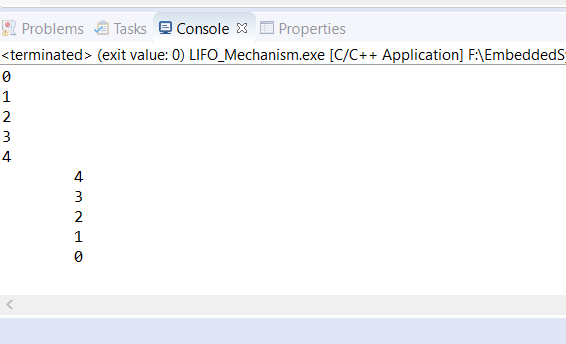
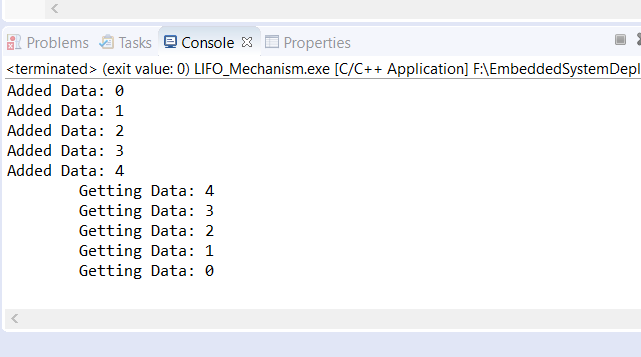
edited library

diff --git a/3...Data_Structure/Assignment/Lecture_1/LIFO_Mechanism/lifo.c b/3...Data_Structure/Assignment/Lecture_1/LIFO_Mechanism/lifo.c
@@ -17,7 +17,7 @@
 
 LIFO_Status LIFO_Buf_Init(LIFO_BASE_t* PLIFO, DataType* P_Buf, uint32_t length)
 {
-	//check if buffer is already exit or not.
+	//check if buffer is already exist or not.
 	if(P_Buf == NULL)
 		return LIFO_Error;
 
@@ -30,7 +30,7 @@ LIFO_Status LIFO_Buf_Init(LIFO_BASE_t* PLIFO, DataType* P_Buf, uint32_t length)
 
 LIFO_Status LIFO_AddData(LIFO_BASE_t* PLIFO, DataType temp)
 {
-	//check if LIFO is already exit or not.
+	//check if LIFO is already pointing to a buffer or not.
 	if(!PLIFO->Base || !PLIFO->Head)
 	{
 		return LIFO_Error;
@@ -49,7 +49,7 @@ LIFO_Status LIFO_AddData(LIFO_BASE_t* PLIFO, DataType temp)
 
 LIFO_Status LIFO_GetData(LIFO_BASE_t* PLIFO, DataType* temp)
 {
-	//check if LIFO is already exit or not.
+	//check if LIFO is already exist or not.
 	if(!PLIFO->Base || !PLIFO->Head)
 	{
 		return LIFO_Error;

diff --git a/3...Data_Structure/Assignment/Lecture_1/LIFO_Mechanism/main.c b/3...Data_Structure/Assignment/Lecture_1/LIFO_Mechanism/main.c
@@ -12,8 +12,6 @@
 
 /*====================Global_Variables========================*/
 
-DataType Buffer[Length_Buf];
-
 /*====================MAIN_APPLICATION========================*/
 
 int main()
@@ -26,7 +24,7 @@ int main()
 	{
 		if(LIFO_AddData(P_LIFO_Buffer, i) == LIFO_noError)
 		{
-			printf("%u\n",Buffer[i]);
+			printf("Added Data: %u\n",Buffer[i]);
 			fflush(stdin);
 			fflush(stdout);
 		}
@@ -35,7 +33,7 @@ int main()
 	{
 		if(LIFO_GetData(P_LIFO_Buffer,&temp) == LIFO_noError)
 		{
-			printf("\t%u\n",temp);
+			printf("\tGetting Data: %u\n",temp);
 			fflush(stdin);
 			fflush(stdout);
 		}

diff --git a/3...Data_Structure/Assignment/Lecture_1/LIFO_Mechanism/lifo.h b/3...Data_Structure/Assignment/Lecture_1/LIFO_Mechanism/lifo.h
@@ -12,8 +12,15 @@
 /*====================Macros========================*/
 
 // Configurations from User.
+// data type of each elements in the buffer.
 #define DataType   uint32_t
+//define width of the buffer
 #define Length_Buf    5
+
+/*====================Global_Variables========================*/
+
+//create a global buffer which compatible with data type in driver.
+DataType Buffer[Length_Buf];
 
 /*====================Type_Definitions========================*/
 
